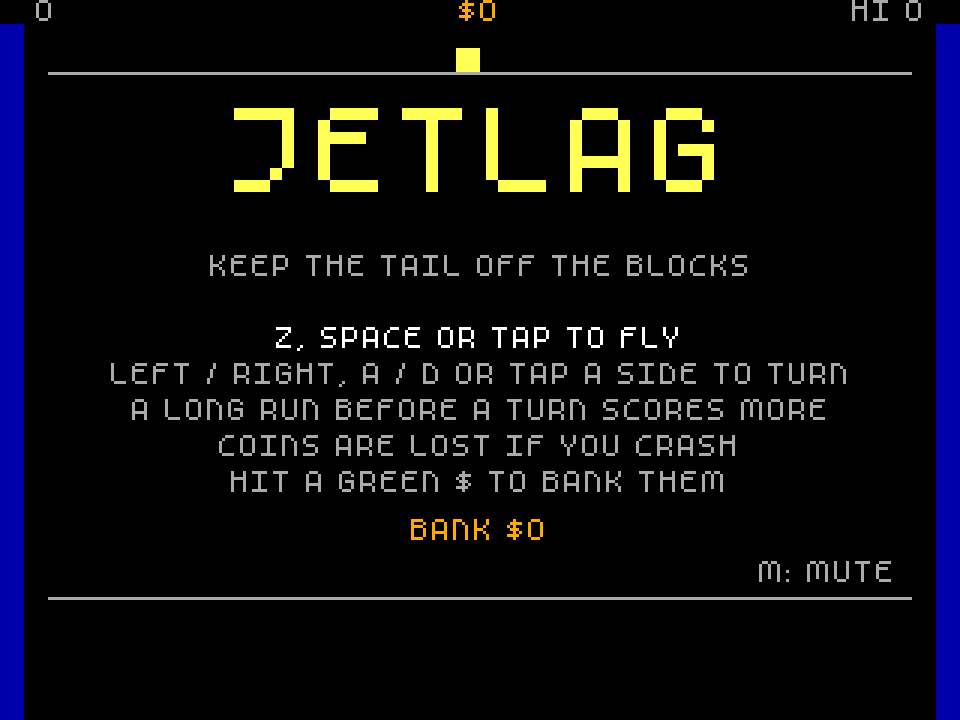
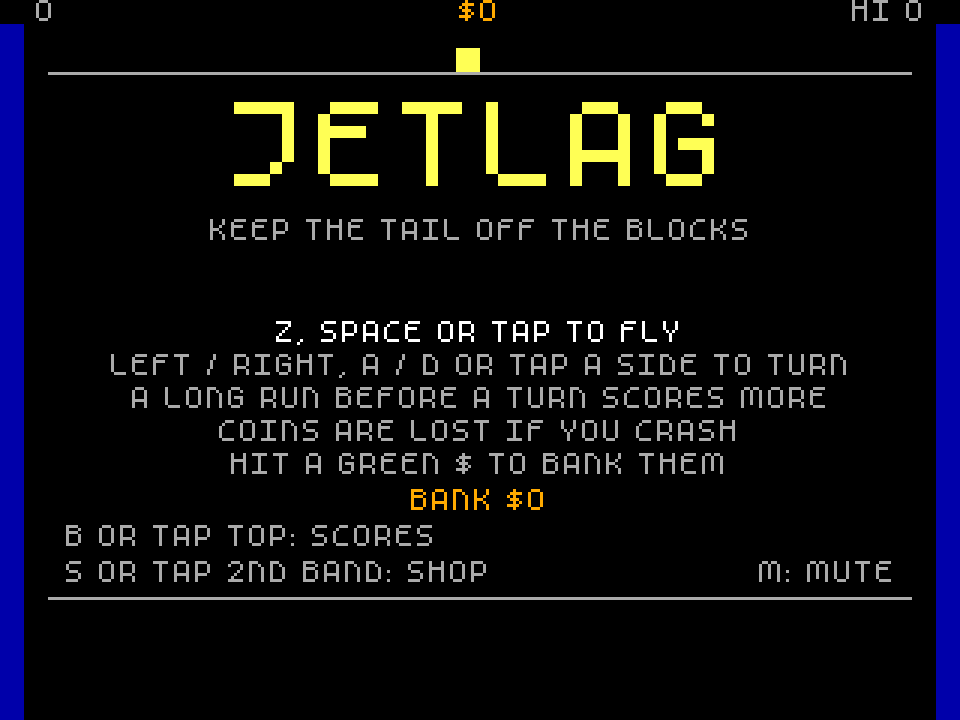
Add a between-runs shop with bombs; fix menu text overlap
Bombs cost $10 from the bank, carry up to 3, survive a crash and are saved.
Z/Space (or two-finger tap, gamepad X) in a run clears every block on screen.
The shop opens with S, a tap on the second band, or gamepad X.
The menu is laid out on fixed rows so the bank line no longer overlaps the footer.

diff --git a/web/index.html b/web/index.html
@@ -23,8 +23,8 @@
 	(function () {
 		"use strict";
 		const W = 320, H = 240;
-		// Must match src/game: Command (Left, Right, Start, Mute, Board) and Sound (Turn, Death, Coin, Bank).
-		const CMD = { LEFT: 0, RIGHT: 1, START: 2, MUTE: 3, BOARD: 4 };
+		// Must match src/game: Command (Left, Right, Start, Mute, Board, Bomb, Shop, Buy) and Sound (Turn, Death, Coin, Bank, Bomb).
+		const CMD = { LEFT: 0, RIGHT: 1, START: 2, MUTE: 3, BOARD: 4, BOMB: 5, SHOP: 6, BUY: 7, NONE: -1 };
 		// Must match game.Board_Status (Idle, Loading, Ready, Failed).
 		const BOARD = { LOADING: 1, READY: 2, FAILED: 3 };
 		// LootLocker online top scores. This is the game's public client key, not a secret. LootLocker no longer has
@@ -38,8 +38,8 @@
 			board: "jetlag_score",
 			count: 10,
 		};
-		const SOUND_FILES = ["sfx/turn.wav", "sfx/death.wav", "sfx/coin.wav", "sfx/bank.wav"];
-		const KEY_SLOTS = ["jetlag.high", "jetlag.bank", "jetlag.muted"];
+		const SOUND_FILES = ["sfx/turn.wav", "sfx/death.wav", "sfx/coin.wav", "sfx/bank.wav", "sfx/bomb.wav"];
+		const KEY_SLOTS = ["jetlag.high", "jetlag.bank", "jetlag.muted", "jetlag.bombs"];
 		const NAME_LEN = 16; // game.NAME_LEN
 
 		const screen = document.getElementById("screen");
@@ -162,24 +162,40 @@
 		const KEYS = {
 			ArrowLeft: CMD.LEFT, KeyA: CMD.LEFT, ArrowRight: CMD.RIGHT, KeyD: CMD.RIGHT,
 			KeyZ: CMD.START, Space: CMD.START, Enter: CMD.START, KeyM: CMD.MUTE, KeyB: CMD.BOARD,
+			KeyS: CMD.SHOP, Digit1: CMD.BUY, Numpad1: CMD.BUY,
 		};
 		window.addEventListener("keydown", e => {
 			if (e.repeat || e.ctrlKey || e.metaKey || e.altKey) return;
-			const cmd = KEYS[e.code];
+			let cmd = KEYS[e.code];
 			if (cmd === undefined) return;
+			// In a run Z and Space drop a bomb; between runs they fly.
+			if (cmd === CMD.START && (e.code === "KeyZ" || e.code === "Space") && ex && ex.platform_in_play()) cmd = CMD.BOMB;
 			e.preventDefault();
 			unlock();
 			send(cmd);
 		});
+		const touches = new Set();
 		screen.addEventListener("pointerdown", e => {
 			e.preventDefault();
 			unlock();
 			if (!ex) return;
+			const another = touches.size > 0; // a second finger down while the first is still held
+			touches.add(e.pointerId);
 			const r = screen.getBoundingClientRect();
-			if (!ex.platform_in_play()) { send(e.clientY - r.top < r.height / 5 ? CMD.BOARD : CMD.START); return; }
+			if (!ex.platform_in_play()) {
+				const y = (e.clientY - r.top) / r.height;
+				if (y < 0.2) send(CMD.BOARD);
+				else if (y < 0.4) send(CMD.SHOP);
+				else send(ex.platform_in_shop() ? (y > 0.6 ? CMD.BUY : CMD.NONE) : CMD.START);
+				return;
+			}
+			if (another) { send(CMD.BOMB); return; }
 			send(e.clientX - r.left < r.width / 2 ? CMD.LEFT : CMD.RIGHT);
 		});
-		let padPrev = { left: false, right: false, start: false, board: false };
+		const lift = e => touches.delete(e.pointerId);
+		screen.addEventListener("pointerup", lift);
+		screen.addEventListener("pointercancel", lift);
+		let padPrev = { left: false, right: false, start: false, board: false, x: false, b: false };
 		function pollPad() {
 			const pads = navigator.getGamepads ? navigator.getGamepads() : [];
 			for (const p of pads) {
@@ -189,7 +205,12 @@
 					right: p.buttons[15].pressed || p.axes[0] > 0.5,
 					start: p.buttons[0].pressed || p.buttons[9].pressed,
 					board: p.buttons[3].pressed,
+					x: p.buttons[2].pressed,
+					b: p.buttons[1].pressed,
 				};
+				// X drops a bomb in a run and opens the shop between; B buys in the shop.
+				if (now.x && !padPrev.x) send(ex.platform_in_play() ? CMD.BOMB : CMD.SHOP);
+				if (now.b && !padPrev.b) send(CMD.BUY);
 				if (now.board && !padPrev.board) send(CMD.BOARD);
 				if (now.left && !padPrev.left) send(CMD.LEFT);
 				if (now.right && !padPrev.right) send(CMD.RIGHT);

diff --git a/tools/gen_sfx.py b/tools/gen_sfx.py
@@ -1,5 +1,5 @@
 #!/usr/bin/env python3
-"""Writes assets/sfx/coin.wav and bank.wav: short square-wave blips (the turn and death sounds are the originals from JetLag 2017).
+"""Writes assets/sfx/coin.wav, bank.wav and bomb.wav: short square-wave blips (the turn and death sounds are the originals from JetLag 2017).
 Usage: tools/gen_sfx.py   (stdlib only)"""
 import math, os, struct, wave
 
@@ -22,3 +22,4 @@ def write(name, parts):
 
 write("coin.wav", [tone(988, 50), tone(1319, 90)])
 write("bank.wav", [tone(523, 70), tone(659, 70), tone(784, 70), tone(1047, 160)])
+write("bomb.wav", [tone(220, 60, 0.3), tone(165, 60, 0.3), tone(110, 90, 0.3), tone(82, 160, 0.3)])
